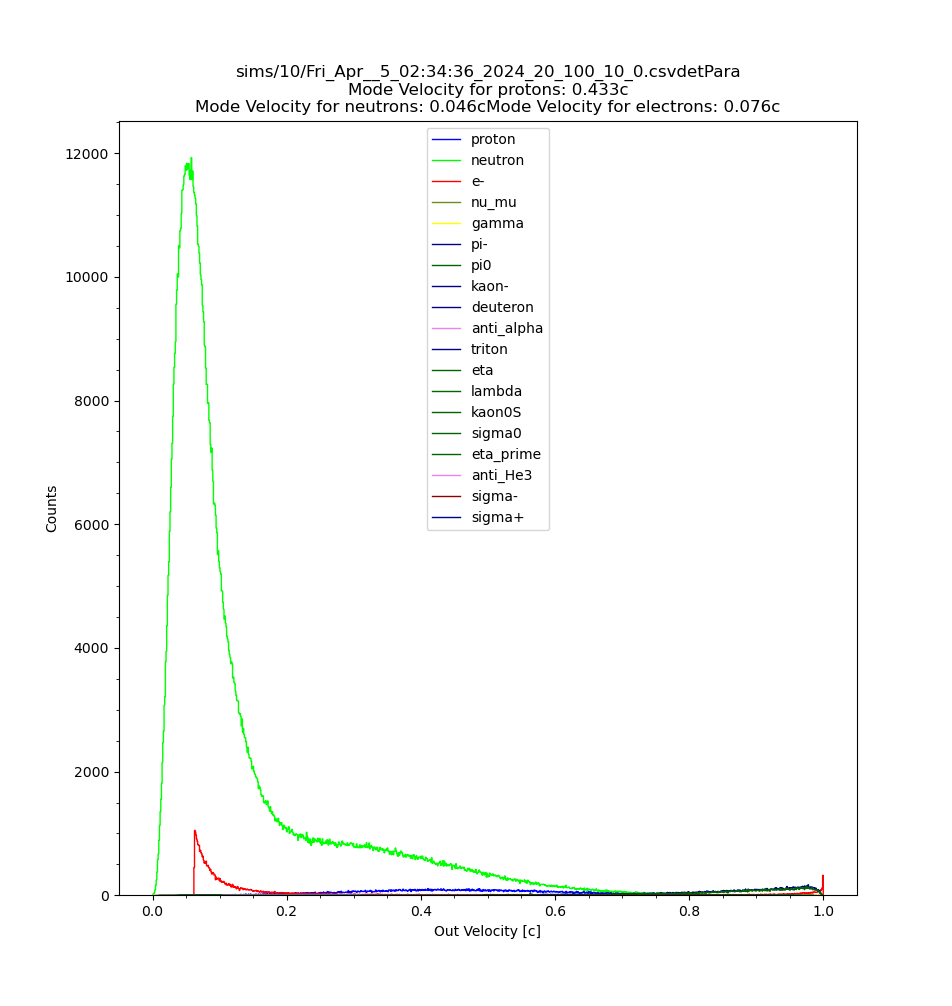
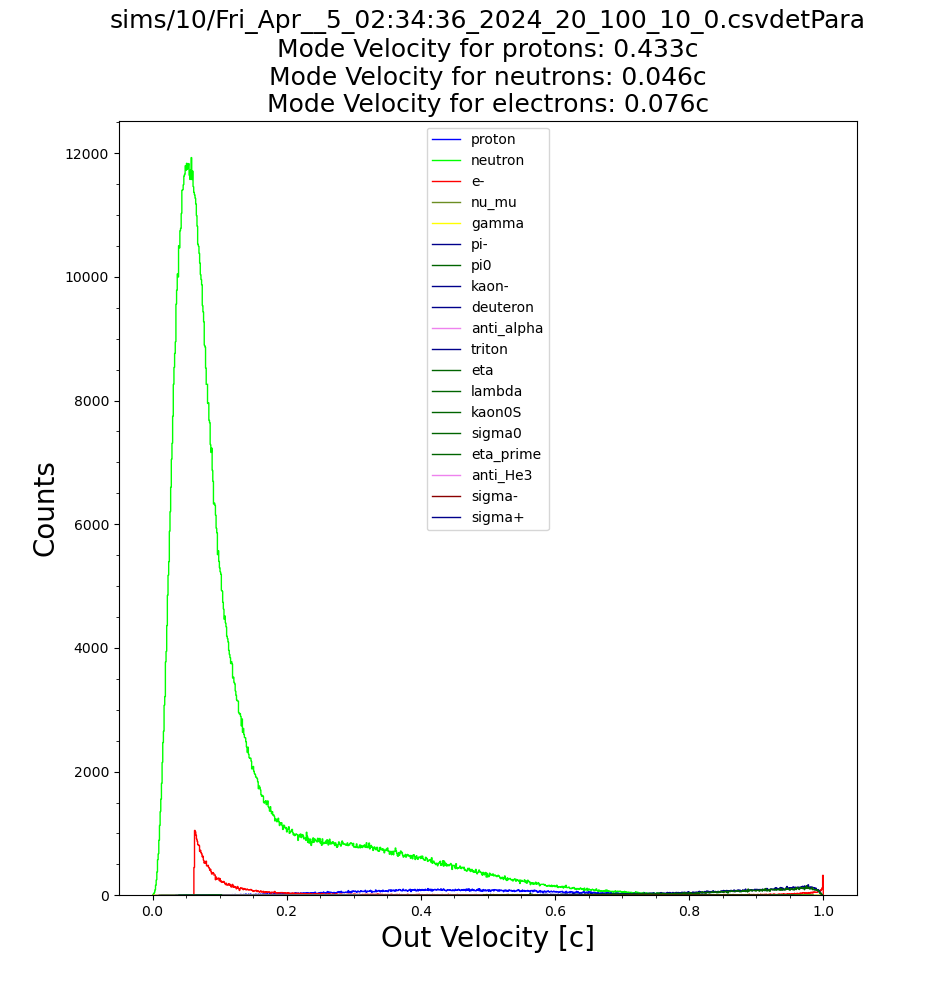
plots #2

Changed region(s): [[0.1218, 0.0, 0.9139, 0.1233], [0.396, 0.9245, 0.6397, 0.9553], [0.0305, 0.4622, 0.0609, 0.5547]]

diff --git a/data/countsOfParticles.py b/data/countsOfParticles.py
@@ -79,6 +79,7 @@ string += (
     + " for neutrons: "
     + str(round(st.mode(draw("neutron", "lime")), 3))
     + units
+    + "\n"
 )
 string += (
     "Mode "
@@ -92,11 +93,11 @@ print(others)
 for o in others:
     draw(o, others[o])
 
-ax.set_xlabel("Out " + value + " [" + units + "]")
-ax.set_ylabel("Counts")
+ax.set_xlabel("Out " + value + " [" + units + "]", size=20)
+ax.set_ylabel("Counts", size=20)
 ax.legend(loc="upper center")
-ax.set_title(sys.argv[1] + detector + "\n" + string)
+ax.set_title(sys.argv[1] + detector + "\n" + string, size=18)
 ax.minorticks_on()
-# ax.set_yscale("log")
+ax.set_yscale("log")
 
 plt.show()

diff --git a/data/crossSections.py b/data/crossSections.py
@@ -28,9 +28,9 @@ for en in counts.keys():
 fig = plt.figure()
 ax = fig.add_subplot()
 ax.plot(counts.keys(), crossSections)
-ax.set_title("cross section of pPb collision")
-ax.set_xlabel("Energy [GeV]")
-ax.set_ylabel("Cross section [b]")
+ax.set_title("cross section of pPb collision", size=40)
+ax.set_xlabel("Energy [GeV]", size=20)
+ax.set_ylabel("Cross section [b]", size=20)
 # ax.set_xscale("log")
 ax.minorticks_on()
 fig.savefig("sims/cross(E).png")

diff --git a/data/plot.py b/data/plot.py
@@ -42,7 +42,7 @@ def plot(data, energy):
 for en in reversed(list(counts.keys())):
     plot(counts[en], en)
 plt.legend(loc="upper left")
-plt.xlabel("L1 [cm]")
-plt.ylabel("Number of neutrons per reaction")
-plt.title("Number of neutrons by L1 length")
+plt.xlabel("L1 [cm]",size=30)
+plt.ylabel("Number of neutrons per reaction", size=30)
+plt.title("Number of neutrons by L1 length",size=40)
 plt.show()
